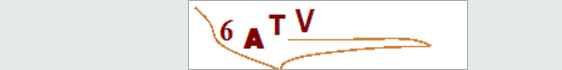
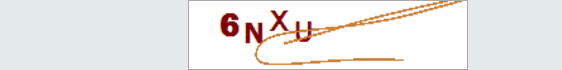
threshold image

Changed region(s): [[0.3327, 0.0, 0.8167, 1.0]]

diff --git a/python/infoobras/range.py b/python/infoobras/range.py
@@ -1,0 +1,108 @@
+
+#!/usr/bin/env python
+# -*- coding: utf-8 -*-
+
+# USAGE: You need to specify a filter and "only one" image source
+#
+# (python) range-detector --filter RGB --image /path/to/image.png
+# or
+# (python) range-detector --filter HSV --webcam
+
+import cv2
+import argparse
+from operator import xor
+
+
+def callback(value):
+    pass
+
+
+def setup_trackbars(range_filter):
+    cv2.namedWindow("Trackbars", 0)
+
+    for i in ["MIN", "MAX"]:
+        v = 0 if i == "MIN" else 255
+
+        for j in range_filter:
+            cv2.createTrackbar("%s_%s" % (j, i), "Trackbars", v, 255, callback)
+
+
+def get_arguments():
+    ap = argparse.ArgumentParser()
+    ap.add_argument('-f', '--filter', required=True,
+                    help='Range filter. RGB or HSV')
+    ap.add_argument('-i', '--image', required=False,
+                    help='Path to the image')
+    ap.add_argument('-w', '--webcam', required=False,
+                    help='Use webcam', action='store_true')
+    ap.add_argument('-p', '--preview', required=False,
+                    help='Show a preview of the image after applying the mask',
+                    action='store_true')
+    args = vars(ap.parse_args())
+
+    if not xor(bool(args['image']), bool(args['webcam'])):
+        ap.error("Please specify only one image source")
+
+    if not args['filter'].upper() in ['RGB', 'HSV']:
+        ap.error("Please speciy a correct filter.")
+
+    return args
+
+
+def get_trackbar_values(range_filter):
+    values = []
+
+    for i in ["MIN", "MAX"]:
+        for j in range_filter:
+            v = cv2.getTrackbarPos("%s_%s" % (j, i), "Trackbars")
+            values.append(v)
+
+    return values
+
+
+def main():
+    args = get_arguments()
+
+    range_filter = args['filter'].upper()
+
+    if args['image']:
+        image = cv2.imread(args['image'])
+
+        if range_filter == 'RGB':
+            frame_to_thresh = image.copy()
+        else:
+            frame_to_thresh = cv2.cvtColor(image, cv2.COLOR_BGR2HSV)
+    else:
+        camera = cv2.VideoCapture(0)
+
+    setup_trackbars(range_filter)
+
+    while True:
+        if args['webcam']:
+            ret, image = camera.read()
+
+            if not ret:
+                break
+
+            if range_filter == 'RGB':
+                frame_to_thresh = image.copy()
+            else:
+                frame_to_thresh = cv2.cvtColor(image, cv2.COLOR_BGR2HSV)
+
+        v1_min, v2_min, v3_min, v1_max, v2_max, v3_max = get_trackbar_values(range_filter)
+
+        thresh = cv2.inRange(frame_to_thresh, (v1_min, v2_min, v3_min), (v1_max, v2_max, v3_max))
+
+        if args['preview']:
+            preview = cv2.bitwise_and(image, image, mask=thresh)
+            cv2.imshow("Preview", preview)
+        else:
+            cv2.imshow("Original", image)
+            cv2.imshow("Thresh", thresh)
+
+        if cv2.waitKey(1) & 0xFF is ord('q'):
+            break
+
+
+if __name__ == '__main__':
+    main()

diff --git a/python/infoobras/infoobras.py b/python/infoobras/infoobras.py
@@ -1,7 +1,9 @@
 import base64
 import urllib
+import time
+import cv2
+import numpy as np
 from StringIO import StringIO
-
 from bs4 import BeautifulSoup
 from mechanize import Browser
 from selenium.webdriver.common.by import By
@@ -12,6 +14,24 @@ from selenium.webdriver import ActionChains
 from selenium import webdriver
 from PIL import Image
 import pytesseract
+
+img = cv2.imread("captcha.png")
+boundaries = [
+	([0, 100, 0], [255, 255, 255])
+]
+for (lower, upper) in boundaries:
+    # create NumPy arrays from the boundaries
+    lower = np.array(lower, dtype="uint8")
+    upper = np.array(upper, dtype="uint8")
+    
+    output = cv2.inRange(img, lower, upper)    
+    cv2.imwrite("captcha2.png", output)
+    
+image = Image.open('captcha2.png')
+image.load()
+resuelto = pytesseract.image_to_string(image)
+print "Resultado: " + resuelto
+'''
 chromedriver = "C:/Users/Diego Campos/chromedriver_win32/chromedriver.exe"
 url = "http://apps.contraloria.gob.pe/ciudadano/wfm_obras_buscador.aspx"
 driver = webdriver.Chrome(chromedriver)
@@ -43,17 +63,20 @@ left, top = loc['x'], loc['y']
 width, height = size['width'], size['height']
 box = (int(left), int(top), int(left + width), int(top + height))
 
-screenshot = driver.save_screenshot("captcha.png")
-img = Image.open('captcha.png')
+screenshot = driver.save_screenshot("captcha2.png")
+img = Image.open('captcha2.png')
 captcha = img.crop(box)
-captcha.save('captcha.png', 'PNG')
+captcha.save('captcha2.png', 'PNG')
 
 #aplicando OCR a la imagen
-image = Image.open('captcha.png')
-r,g,b,a = image.split()			#removing the alpha channel
-image = Image.merge('RGB',(r,g,b))
+image = Image.open('captcha2.png')
+image.load()
+#r, g, b, a = image.split()		#removing the alpha channel
+#image = Image.merge('RGB',(r,g,b))
 resuelto = pytesseract.image_to_string(image)
-
+print resuelto
 #submit
 driver.find_element_by_xpath("""//*[@id="txtCodCaptcha"]""").send_keys(resuelto)
-
+time.sleep(5)
+'''
+#driver.find_element_by_xpath("""//*[@id="Buscar"]""").click()
